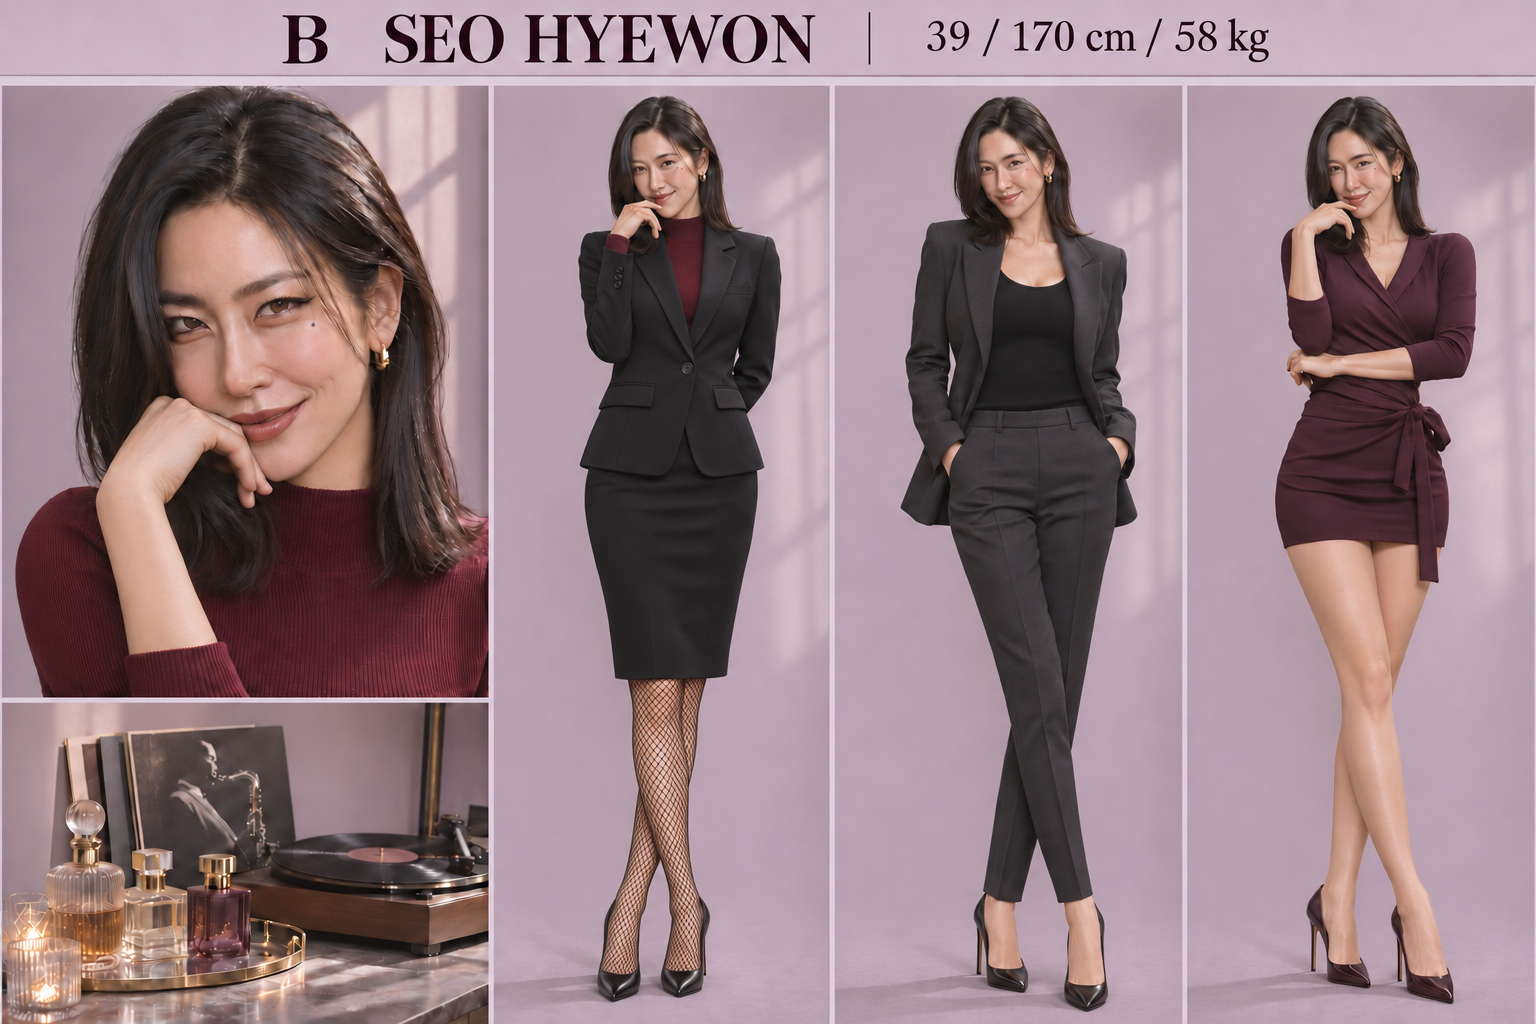
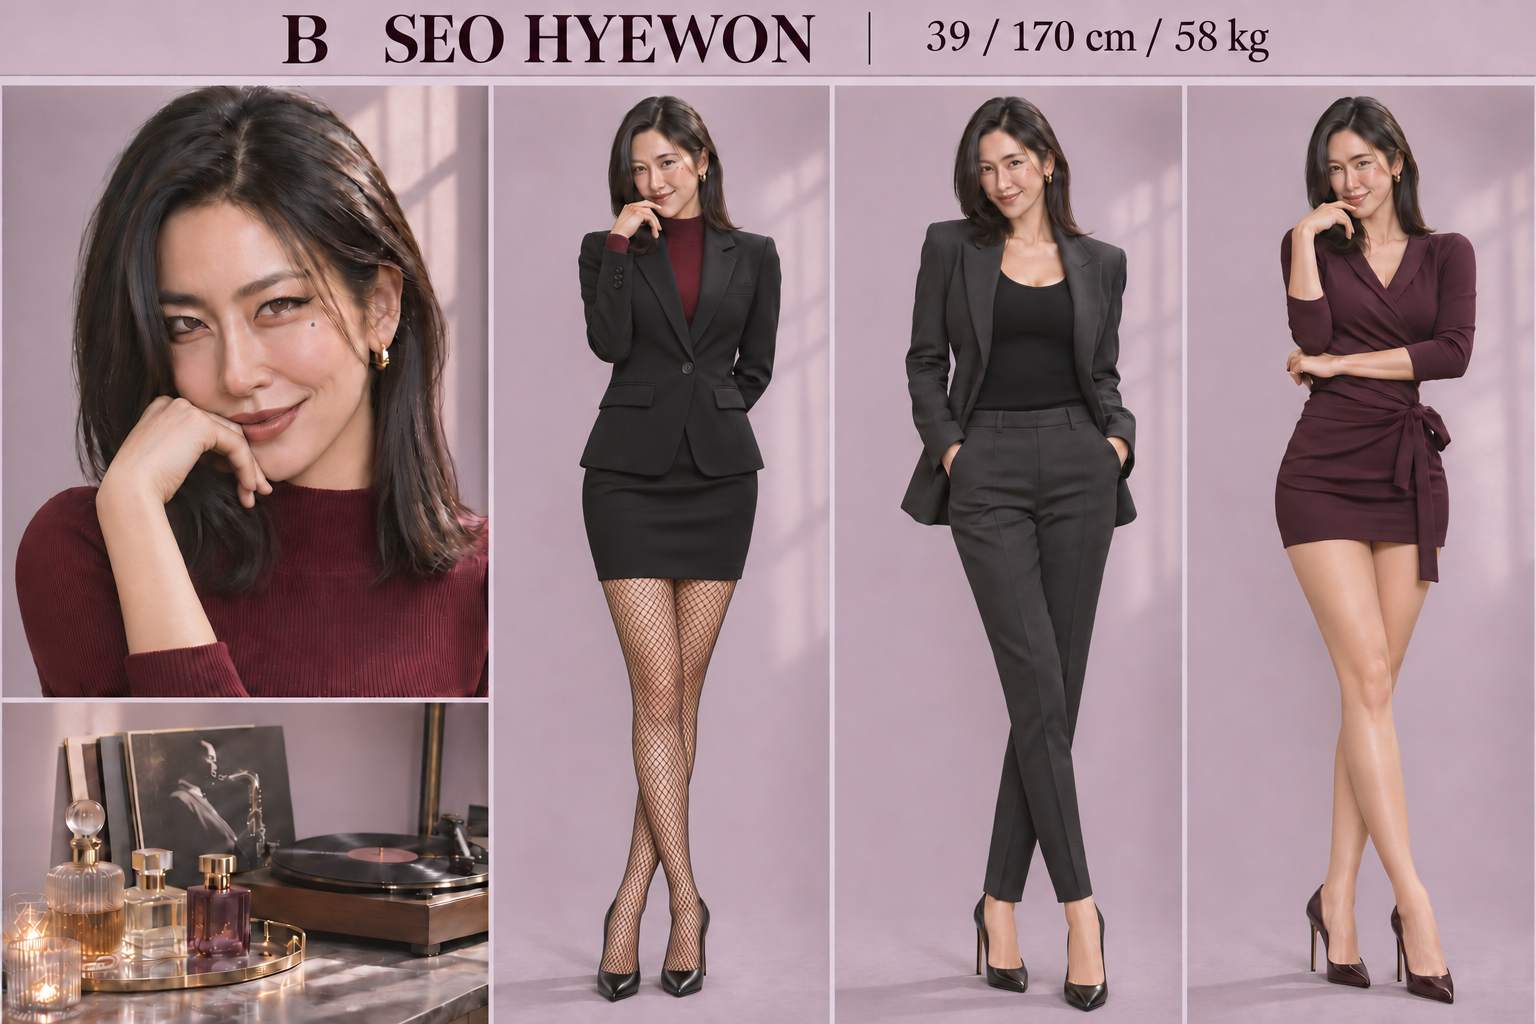
Shorten Seo Hyewon skirt suit hem

Changed region(s): [[0.375, 0.5625, 0.5, 0.9688], [0.0, 0.9062, 0.0312, 0.9375]]

diff --git a/shorts.py b/shorts.py
@@ -48,7 +48,7 @@ HOSTS = {
         "서혜원",
         "39 years old, 170 cm, 58 kg, tall long-limbed build, defined oval face, arched brows, sharp dark eyes, "
         "mole under her left eye, glossy straight shoulder-length black hair with off-center part, "
-        "fitted black suit blazer over a burgundy mock-neck knit, tailored knee-length black pencil skirt, "
+        "fitted black suit blazer over a burgundy mock-neck knit, tailored short above-knee black pencil skirt, "
         "black diamond-mesh fishnet tights, and black pointed pumps",
         "Aoede",
         "섹시하고 응큼한 호스트. 여유로운 능청과 은근한 플러팅. 예시: 오빠, 이렇게 입고 오면 저 먼저 약속 잡아요.",

diff --git a/characters/image-prompts.md b/characters/image-prompts.md
@@ -10,7 +10,7 @@ Generate ONE landscape 3:2 editorial wardrobe and character design sheet for a f
 
 ## B 서혜원
 
-Generate ONE landscape 3:2 editorial wardrobe and character design sheet for a fictional adult Korean woman, host B of a Korean men's style short video series. Fashion magazine photo-realistic; all four views of this same woman have exactly the same face, hair and adult body. Character SEO HYEWON (서혜원), 39 / 170 cm / 58 kg, defined oval face, arched brows, sharp dark cat-like eyes, mole under left eye, glossy straight shoulder-length black hair with off-center part, tall long-limbed build. Personality conveyed through expression and pose: glamorous adult fashion host with a knowing smirk, confident and playfully flirtatious. Wide layout: a clean readable header with exact text "B  SEO HYEWON" and "39 / 170 cm / 58 kg". Below header one evenly spaced row: on left a large head-and-shoulders beauty portrait, on right three distinct head-to-toe outfit photos of her all shoes fully in frame. Exact outfits in order: 1 burgundy fitted mock-neck knit, fitted black blazer and knee-length pencil skirt suit, black diamond-mesh fishnet tights, black pointed pumps; 2 fitted charcoal blazer, fitted black scoop-neck knit, matching tapered suit trousers, black pointed stilettos; 3 fitted plum wrap top, matching fitted mini skirt, plum pointed stilettos. Under portrait a small restrained still-life suggesting her hobbies: collecting perfumes and listening to jazz records. Warm natural window light, dusty pale lilac seamless backdrop, subtle panel dividers, realistic adult proportions and natural skin texture, no brands or watermarks, keep all outfits opaque and tasteful. No additional text beyond header and stats.
+Generate ONE landscape 3:2 editorial wardrobe and character design sheet for a fictional adult Korean woman, host B of a Korean men's style short video series. Fashion magazine photo-realistic; all four views of this same woman have exactly the same face, hair and adult body. Character SEO HYEWON (서혜원), 39 / 170 cm / 58 kg, defined oval face, arched brows, sharp dark cat-like eyes, mole under left eye, glossy straight shoulder-length black hair with off-center part, tall long-limbed build. Personality conveyed through expression and pose: glamorous adult fashion host with a knowing smirk, confident and playfully flirtatious. Wide layout: a clean readable header with exact text "B  SEO HYEWON" and "39 / 170 cm / 58 kg". Below header one evenly spaced row: on left a large head-and-shoulders beauty portrait, on right three distinct head-to-toe outfit photos of her all shoes fully in frame. Exact outfits in order: 1 burgundy fitted mock-neck knit, fitted black blazer and short above-knee pencil skirt suit, black diamond-mesh fishnet tights, black pointed pumps; 2 fitted charcoal blazer, fitted black scoop-neck knit, matching tapered suit trousers, black pointed stilettos; 3 fitted plum wrap top, matching fitted mini skirt, plum pointed stilettos. Under portrait a small restrained still-life suggesting her hobbies: collecting perfumes and listening to jazz records. Warm natural window light, dusty pale lilac seamless backdrop, subtle panel dividers, realistic adult proportions and natural skin texture, no brands or watermarks, keep all outfits opaque and tasteful. No additional text beyond header and stats.
 
 ## C 윤서하
 

diff --git a/README.md b/README.md
@@ -5,7 +5,7 @@ Windows에서 상품 목록을 읽어 10~20초 세로 쇼츠를 일괄 제작합
 | 호스트 | 캐릭터 | 외모 설정 | 취미 | 시그니처 룩 |
 | --- | --- | --- | --- | --- |
 | A 한유나 | 섹시하지만 귀엽고 장난기 있는 진행 | 32세, 168cm, 51kg. 하트형 얼굴, 밝은 눈웃음, 한쪽 보조개, 긴 밤색 웨이브 | 디저트 카페 탐방, 테니스 | 버터 옐로 핏 니트, 슬림 인디고 청바지, 흰색 로우탑 스니커즈 |
-| B 서혜원 | 섹시하고 능청스럽게 플러팅하는 진행 | 39세, 170cm, 58kg. 또렷한 눈매, 왼쪽 눈 아래 점, 어깨 길이의 검은 직모 | 향수 수집, 재즈 LP 감상 | 버건디 모크넥, 블랙 스커트 정장, 검은 망사 스타킹, 블랙 스틸레토 힐 |
+| B 서혜원 | 섹시하고 능청스럽게 플러팅하는 진행 | 39세, 170cm, 58kg. 또렷한 눈매, 왼쪽 눈 아래 점, 어깨 길이의 검은 직모 | 향수 수집, 재즈 LP 감상 | 버건디 모크넥, 블랙 미니스커트 정장, 검은 망사 스타킹, 블랙 스틸레토 힐 |
 | C 윤서하 | 섹시하지만 청순하고 다정한 진행 | 43세, 166cm, 54kg. 부드러운 타원형 얼굴, 한쪽 귀 뒤로 넘긴 턱선 단발 | 필름 사진, 꽃꽂이 | 아이보리 보트넥 니트, 옆트임 네이비 무릎 길이 스커트, 살색 스타킹, 크림 스틸레토 힐 |
 
 호스트는 남성을 ‘오빠’라고 부릅니다. 직접 입력한 대본에 ‘아저씨’가 있으면 영상 자막과 음성 생성 전에 ‘오빠’로 바꿉니다. 기존 `hosts/A.png`·`B.png`·`C.png` 파일이 있으면 `hosts all`은 해당 파일을 재사용합니다.
